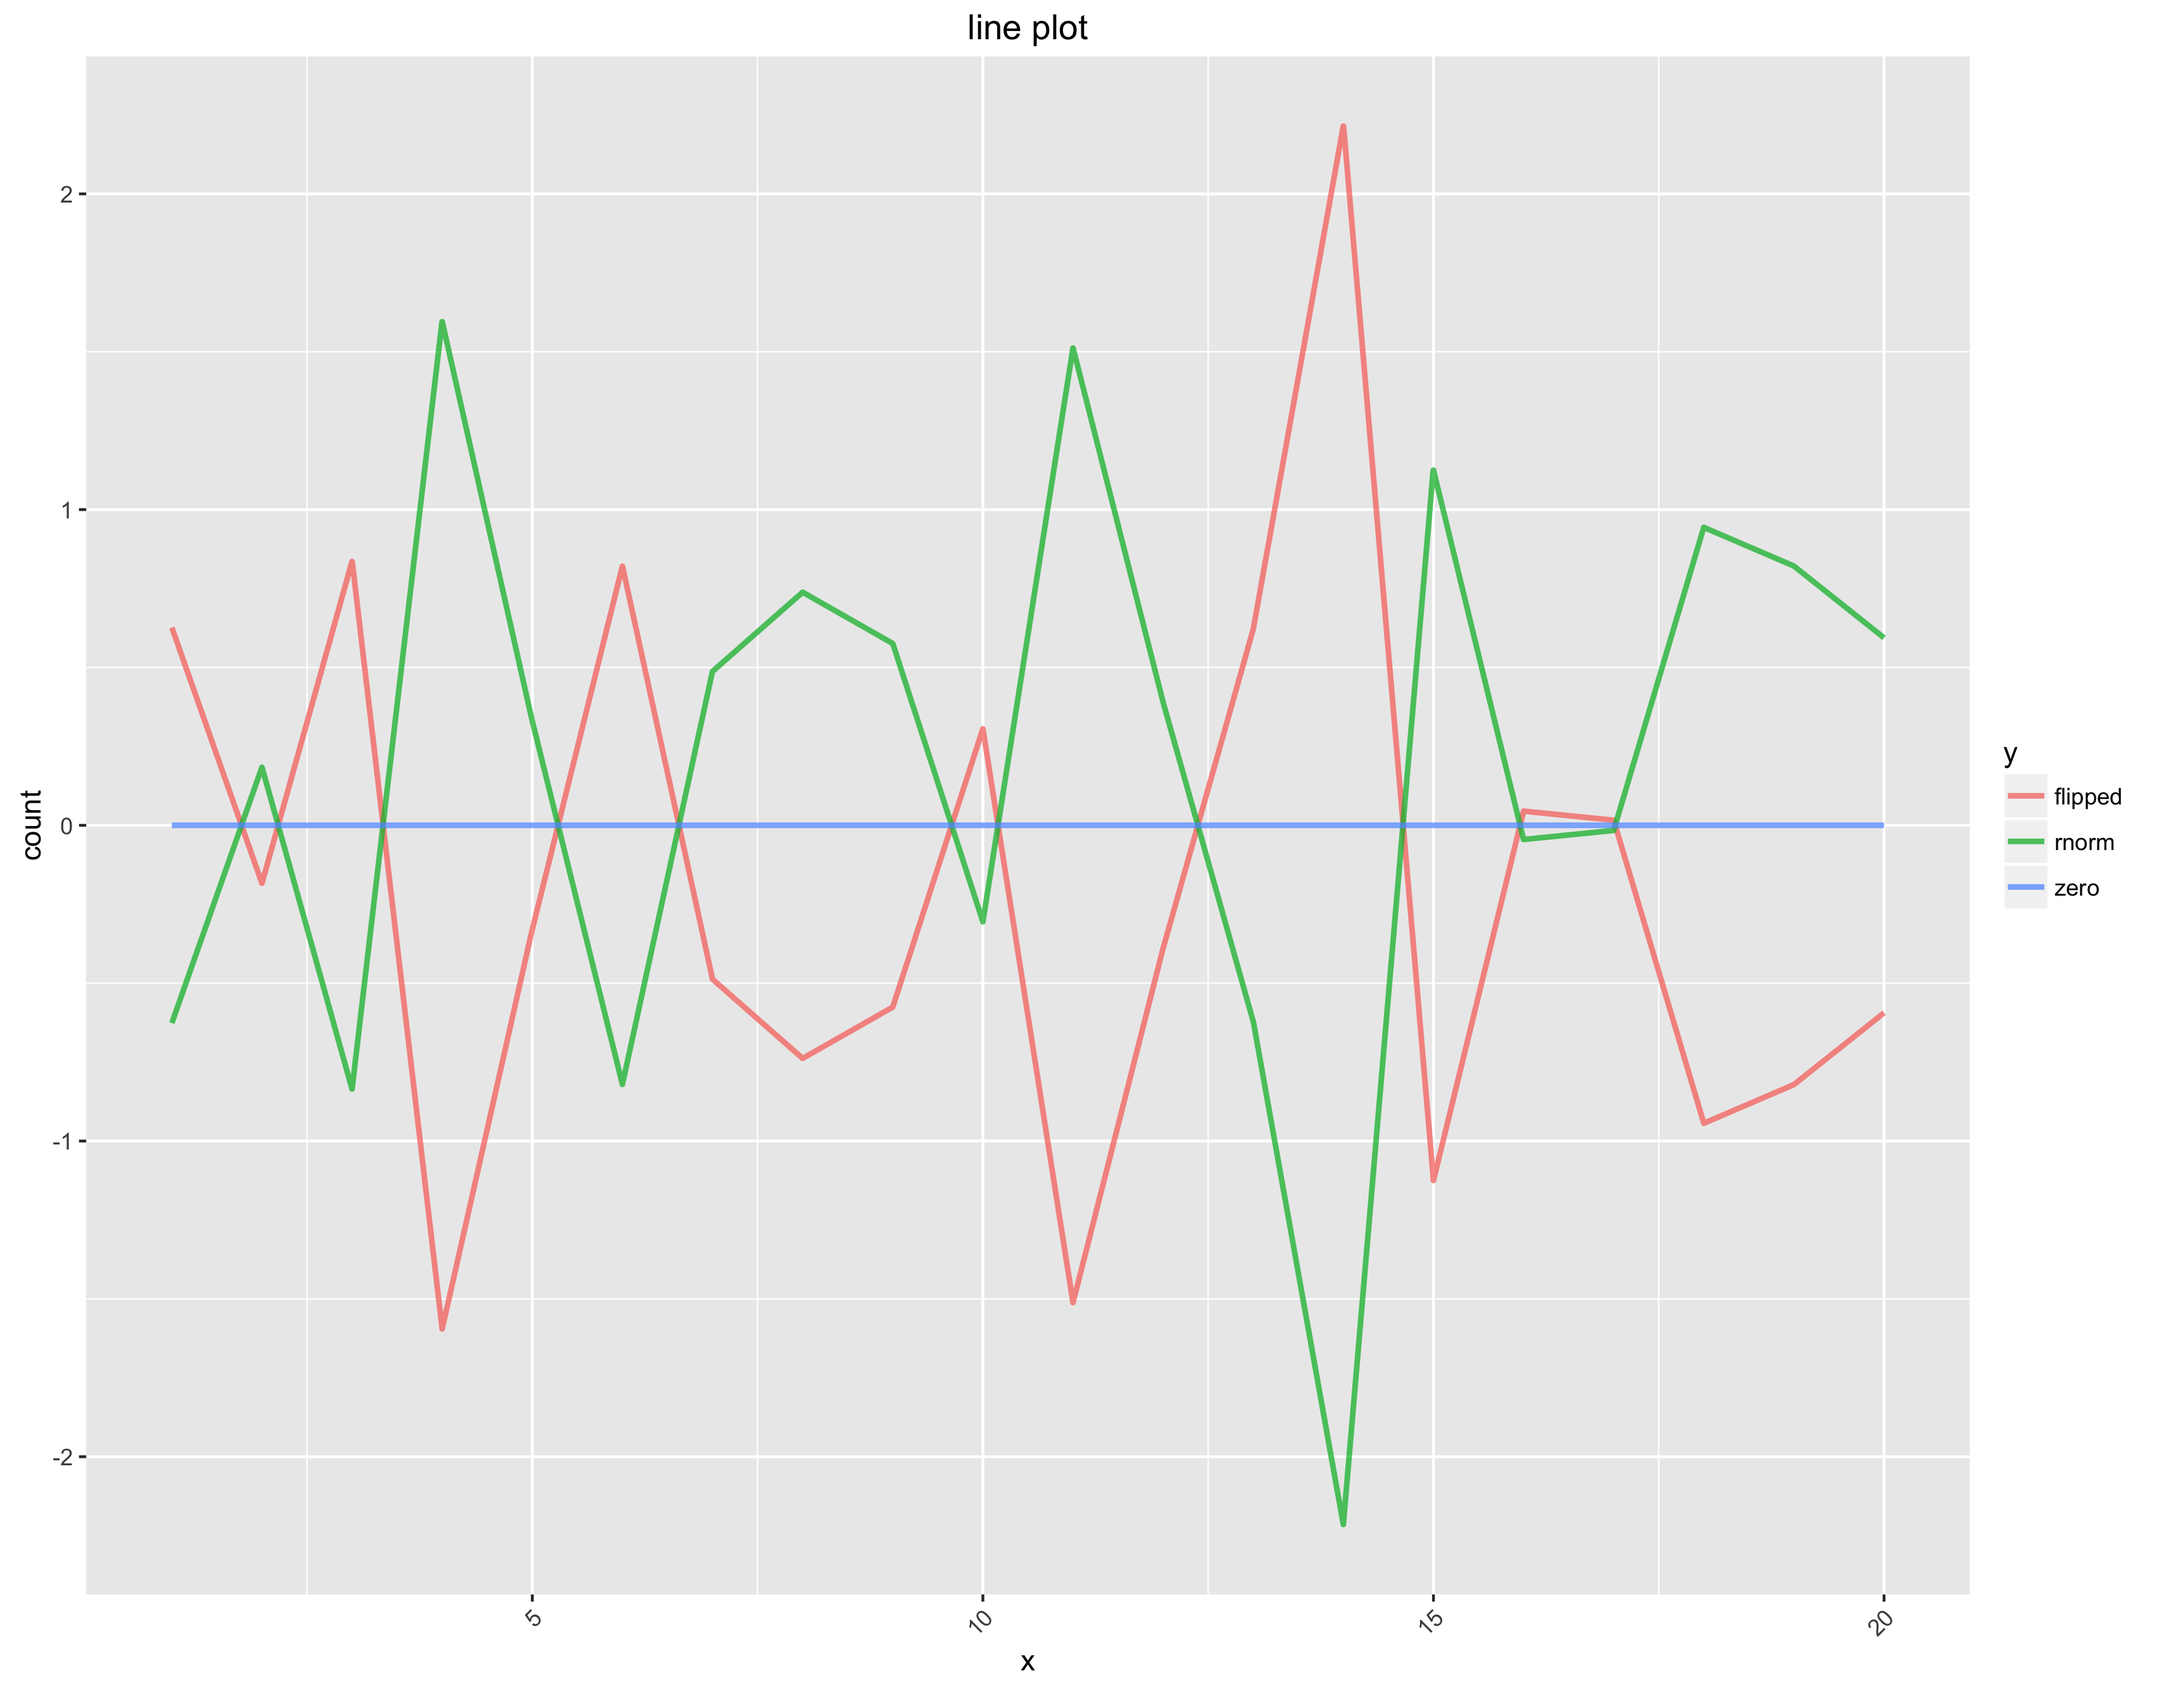
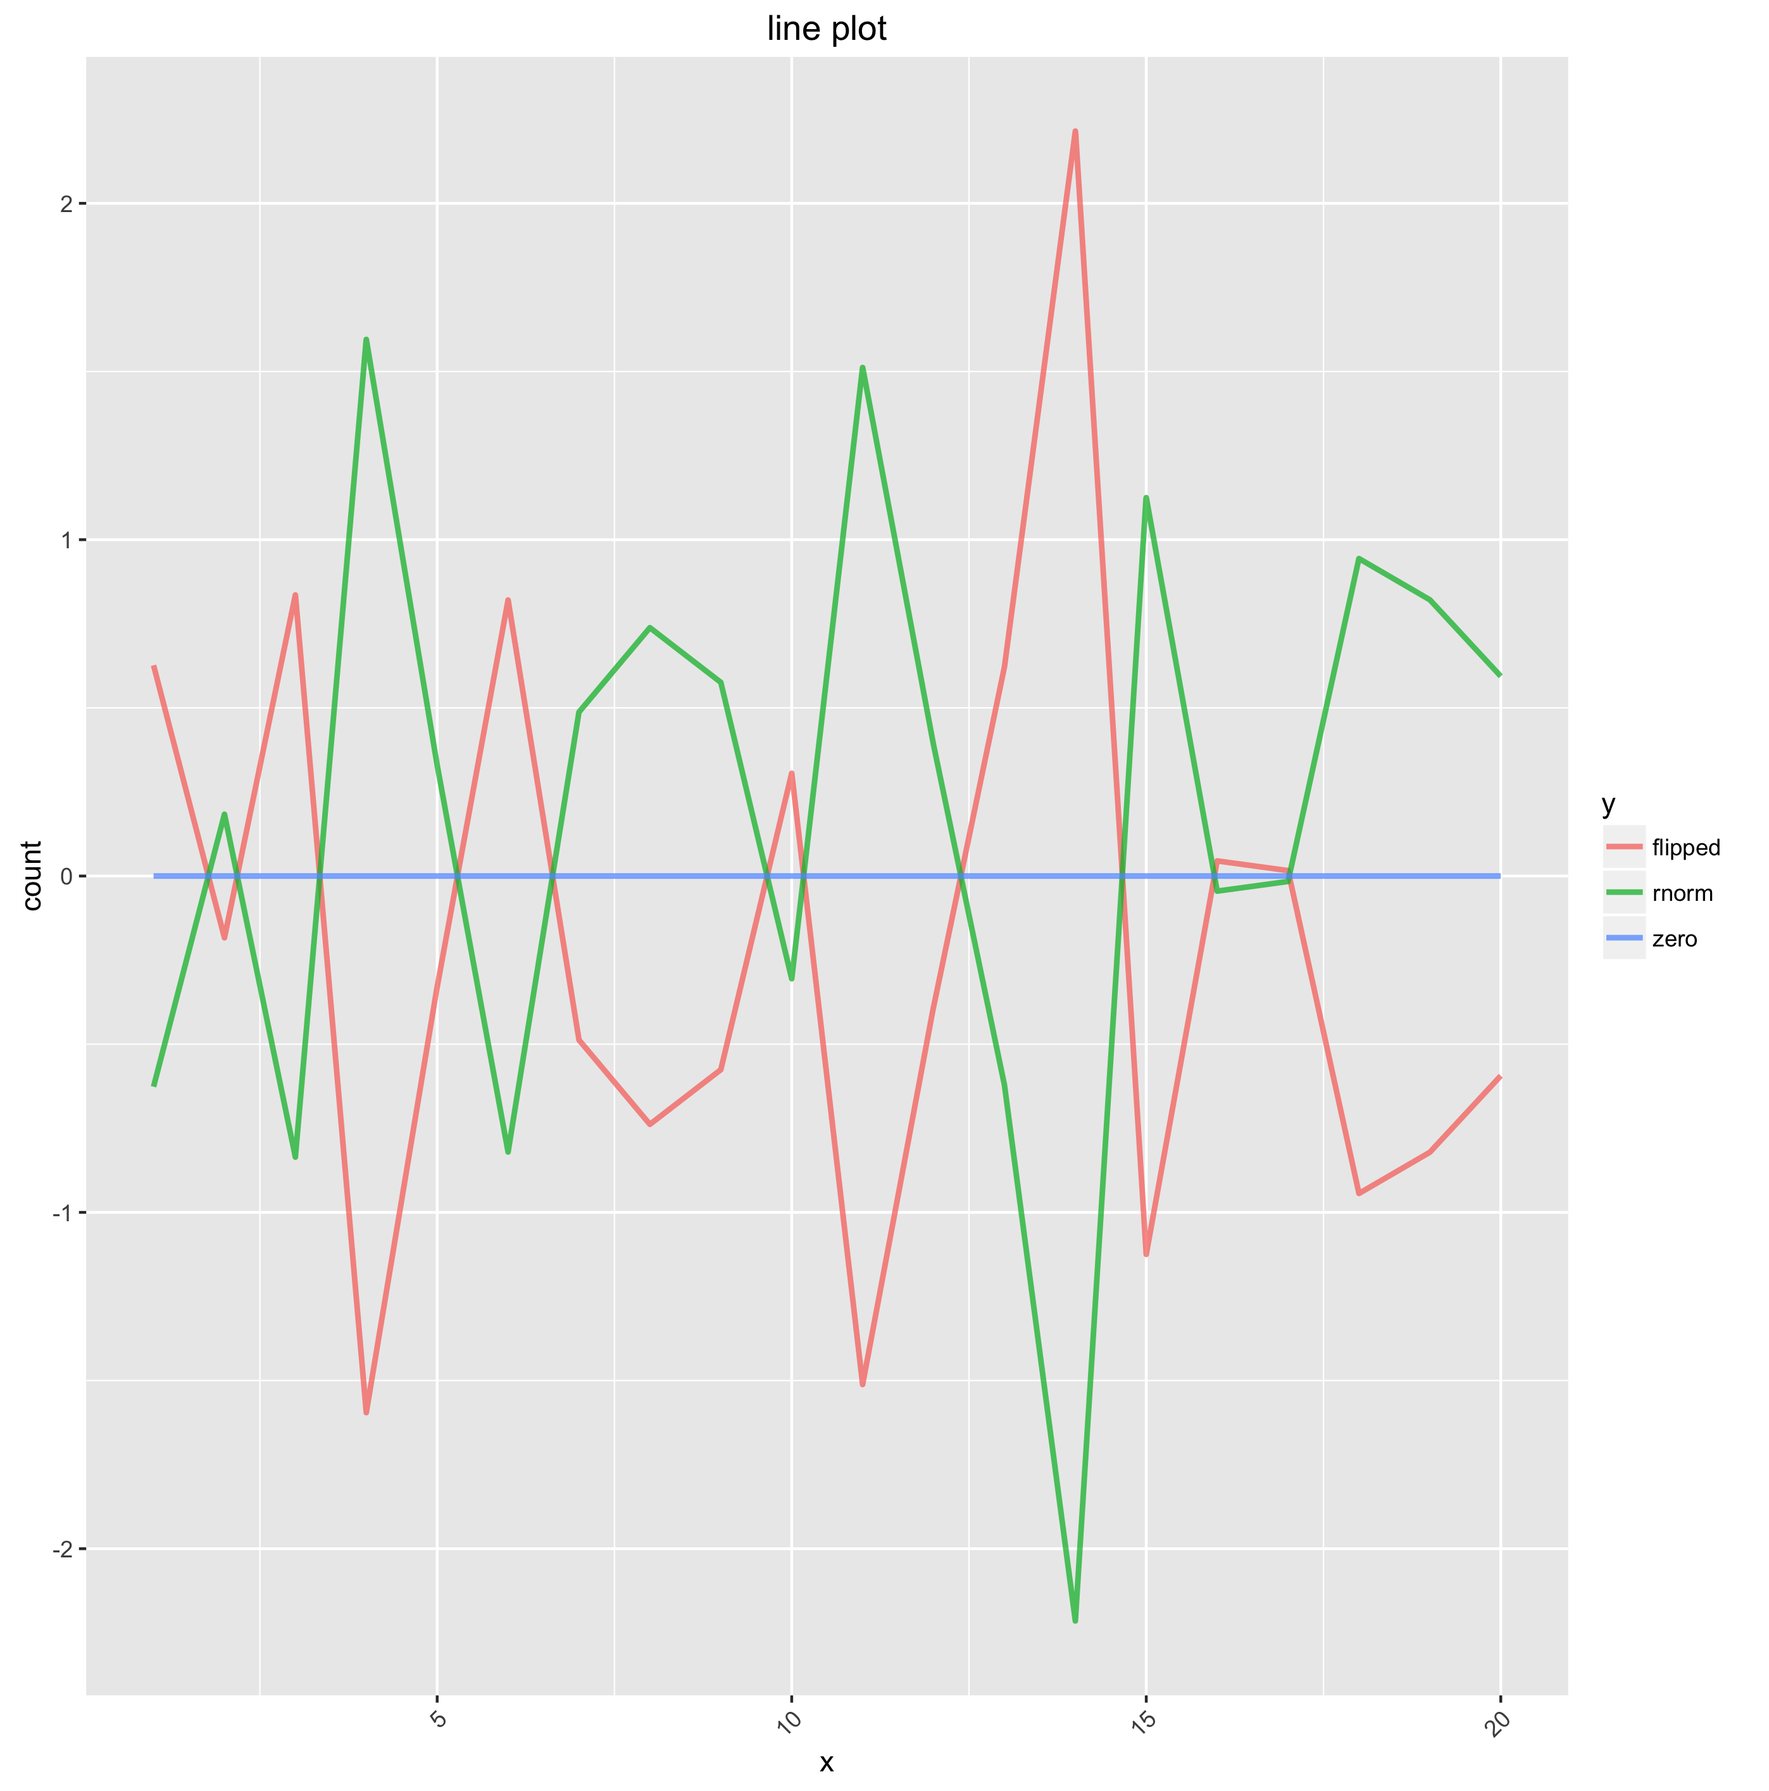
updated line graphs to allow stacking

diff --git a/output/README.md b/output/README.md
@@ -136,6 +136,8 @@ print_c <- function(something, collapse=TRUE, trim=TRUE)
 line_plot_wide_data <- function(df_wide, title='line plot', x_label='x', y_label='count')
 ```
 - takes a wide dataset with column x (representing an index row which will be in x-axis) and all additional columns as summation/count rows; plots as line graph x as x-axis, values in remaining columns as y-axis, and each additional column (from x) as a single line
+- `x_factor_order` and `y_factor_order` take vectors that represent the order in which the x/y axis should be labeled, converts the underlying categorical data to factor.
+- `stack` allows the lines to be plotted with different y-axis's, rather than overlapping. Especially useful when data has very different y-axis scales.
 - `save_file` is the path/name of the file/plot to save. If value is set to `NULL` (default), then plot will not be saved to a file.
 - for example, given the following dataframe
 
@@ -145,14 +147,21 @@ normal_distribution = rnorm(n=20)
 df_wide = data.frame(x=1:20, rnorm=normal_distribution, flipped=normal_distribution * -1, zero=rep(0,20))
 ```
 
-- this plot is generated
+- this plot is generated (`stack=FALSE` (default)):
 
-![line_plot_wide_data](example_line_plot_wide_data.png)
+![line_plot_wide_data_no_stack](example_line_plot_wide_data.png)
+
+- with `stack=TRUE`, this plot is generated:
+
+![line_plot_wide_data_stack](example_line_plot_wide_data_stack.png)
+
 
 ```R
 line_plot_long_data <- function(df_long, title='line plot', x_label='x', y_label='count')
 ```
 - takes long data and plots a line graph
+- `x_factor_order` and `y_factor_order` take vectors that represent the order in which the x/y axis should be labeled, converts the underlying categorical data to factor.
+- `stack` allows the lines to be plotted with different y-axis's, rather than overlapping. Especially useful when data has very different y-axis scales.
 - `save_file` is the path/name of the file/plot to save. If value is set to `NULL` (default), then plot will not be saved to a file.
 - the dataset is in the format of a dataframe like the one below
 
@@ -166,7 +175,7 @@ df_wide = data.frame(x=1:20, rnorm=normal_distribution, flipped=normal_distribut
 heat_map_wide_data <- function(df_wide, title='heat map', x_label='x', y_label='count', scale_label='scale', y_factor_order=NULL, save_file=NULL)
 ```
 - graphs a heatmap of df that has wide data (e.g. hours as rows, days as columns, and count of website visitors as values)
-- `y_factor_order` is variable that describes the order of y level data (e.g. days of week), if such an order exists.
+- `x_factor_order` and `y_factor_order` take vectors that represent the order in which the x/y axis should be labeled, converts the underlying categorical data to factor.
 - see [test_plots.R](../tests/test_plots.R) for example, which produces the following heatmap 
 
 ![heat_map_wide_data](example_heat_map_wide_data.png)
@@ -175,4 +184,5 @@ heat_map_wide_data <- function(df_wide, title='heat map', x_label='x', y_label='
 heat_map_long_data <- function(df_long, title='heat map', x_label='x', y_label='count', scale_label='scale', save_file=NULL)
 ```
 - same as `heat_map_wide_data`, but takes data in long format (e.g. rows that make up hour/day combinations).
+- `x_factor_order` and `y_factor_order` take vectors that represent the order in which the x/y axis should be labeled, converts the underlying categorical data to factor.
 - see [test_plots.R](../tests/test_plots.R) for example, simply call `gather_data` on df_wide to see dataset.
